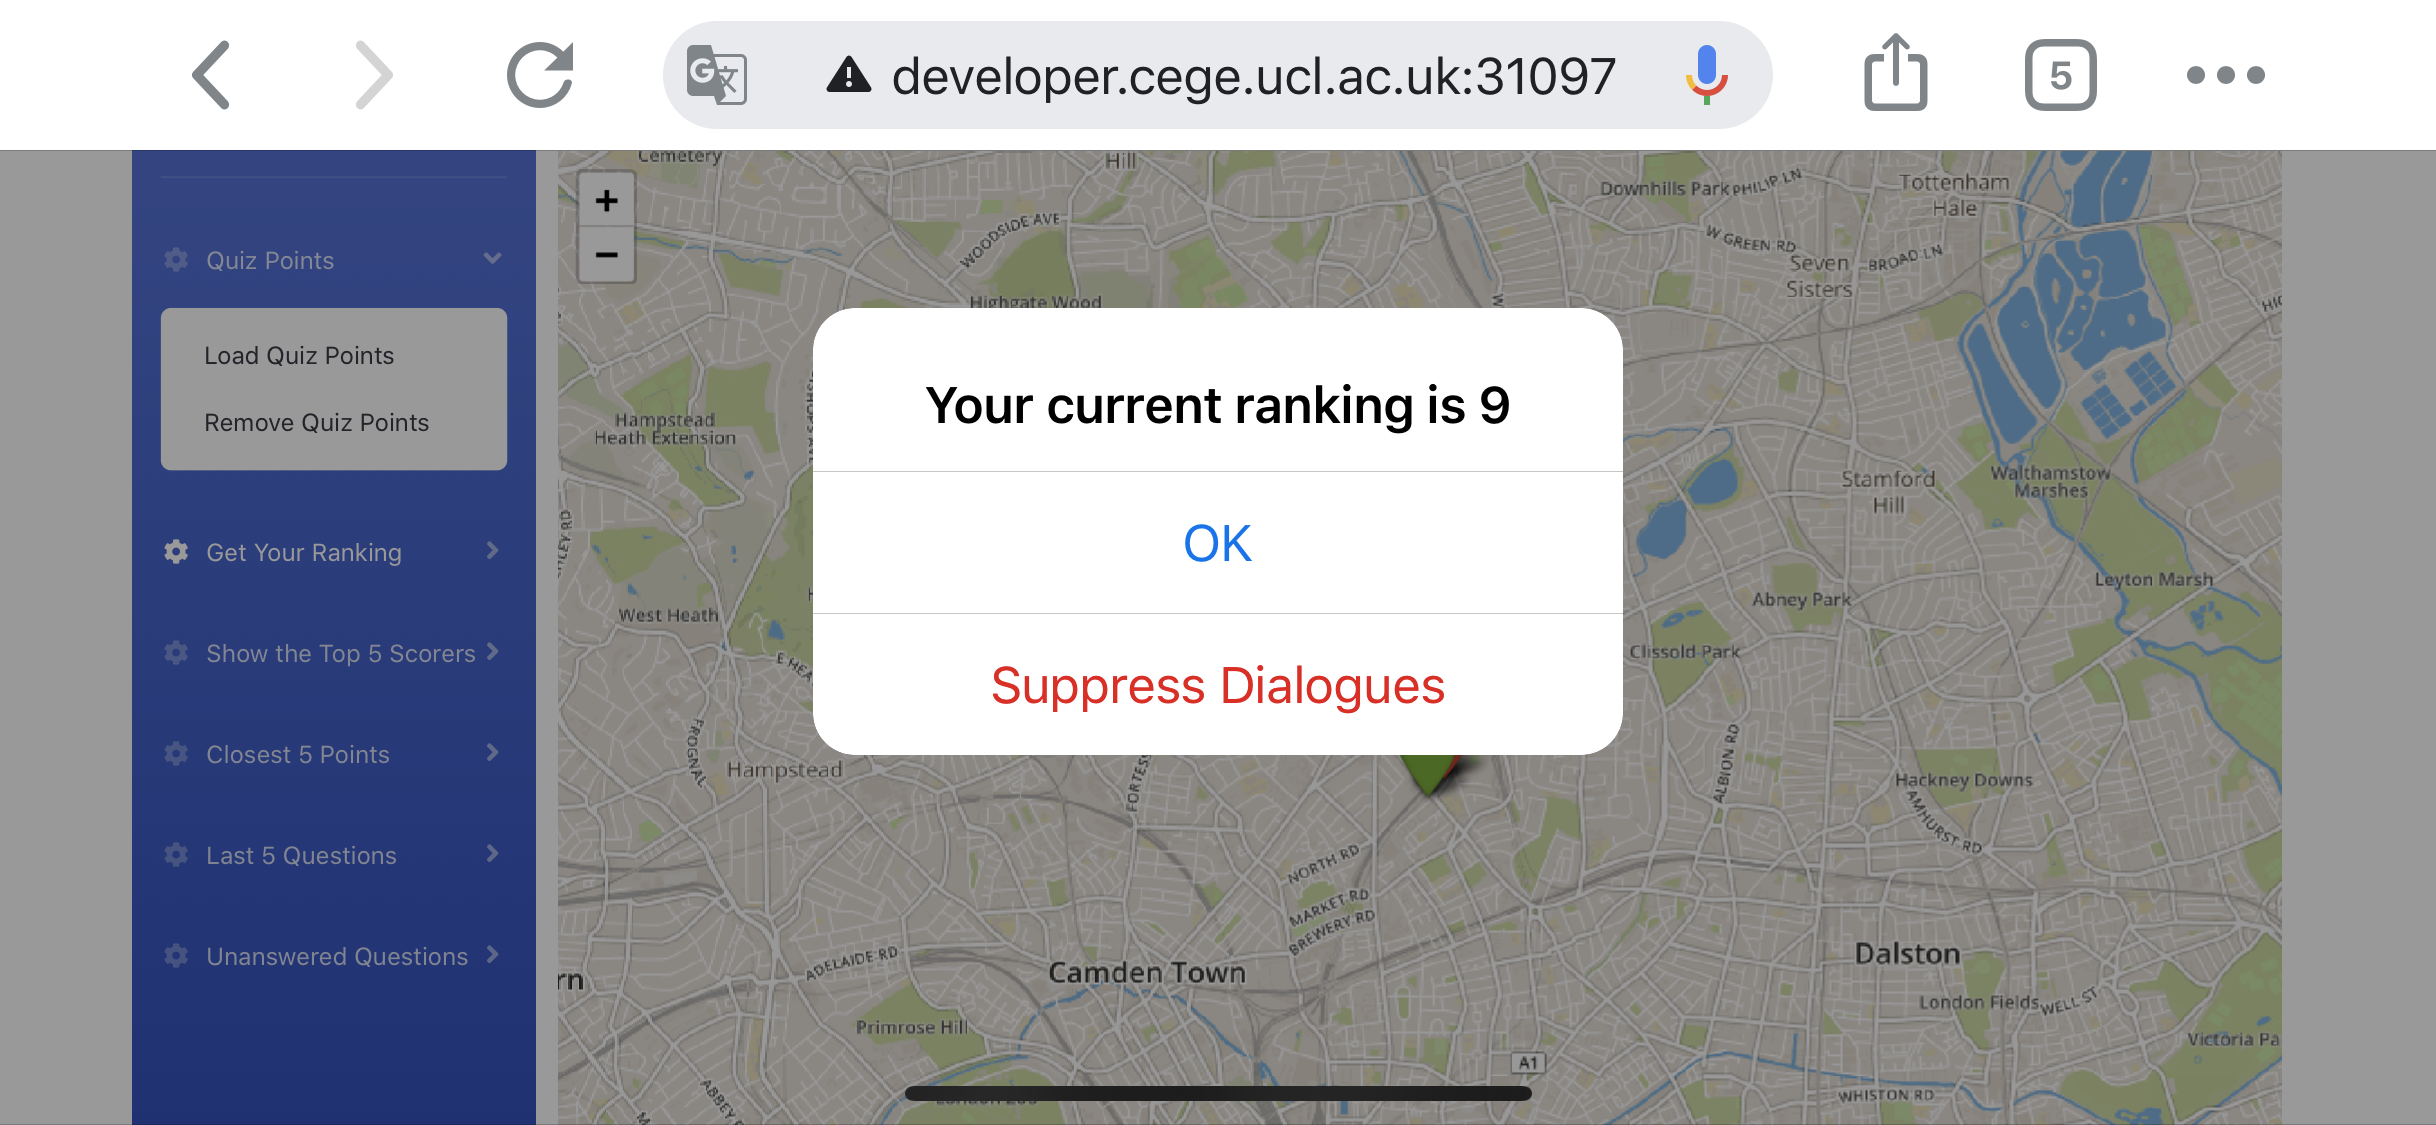
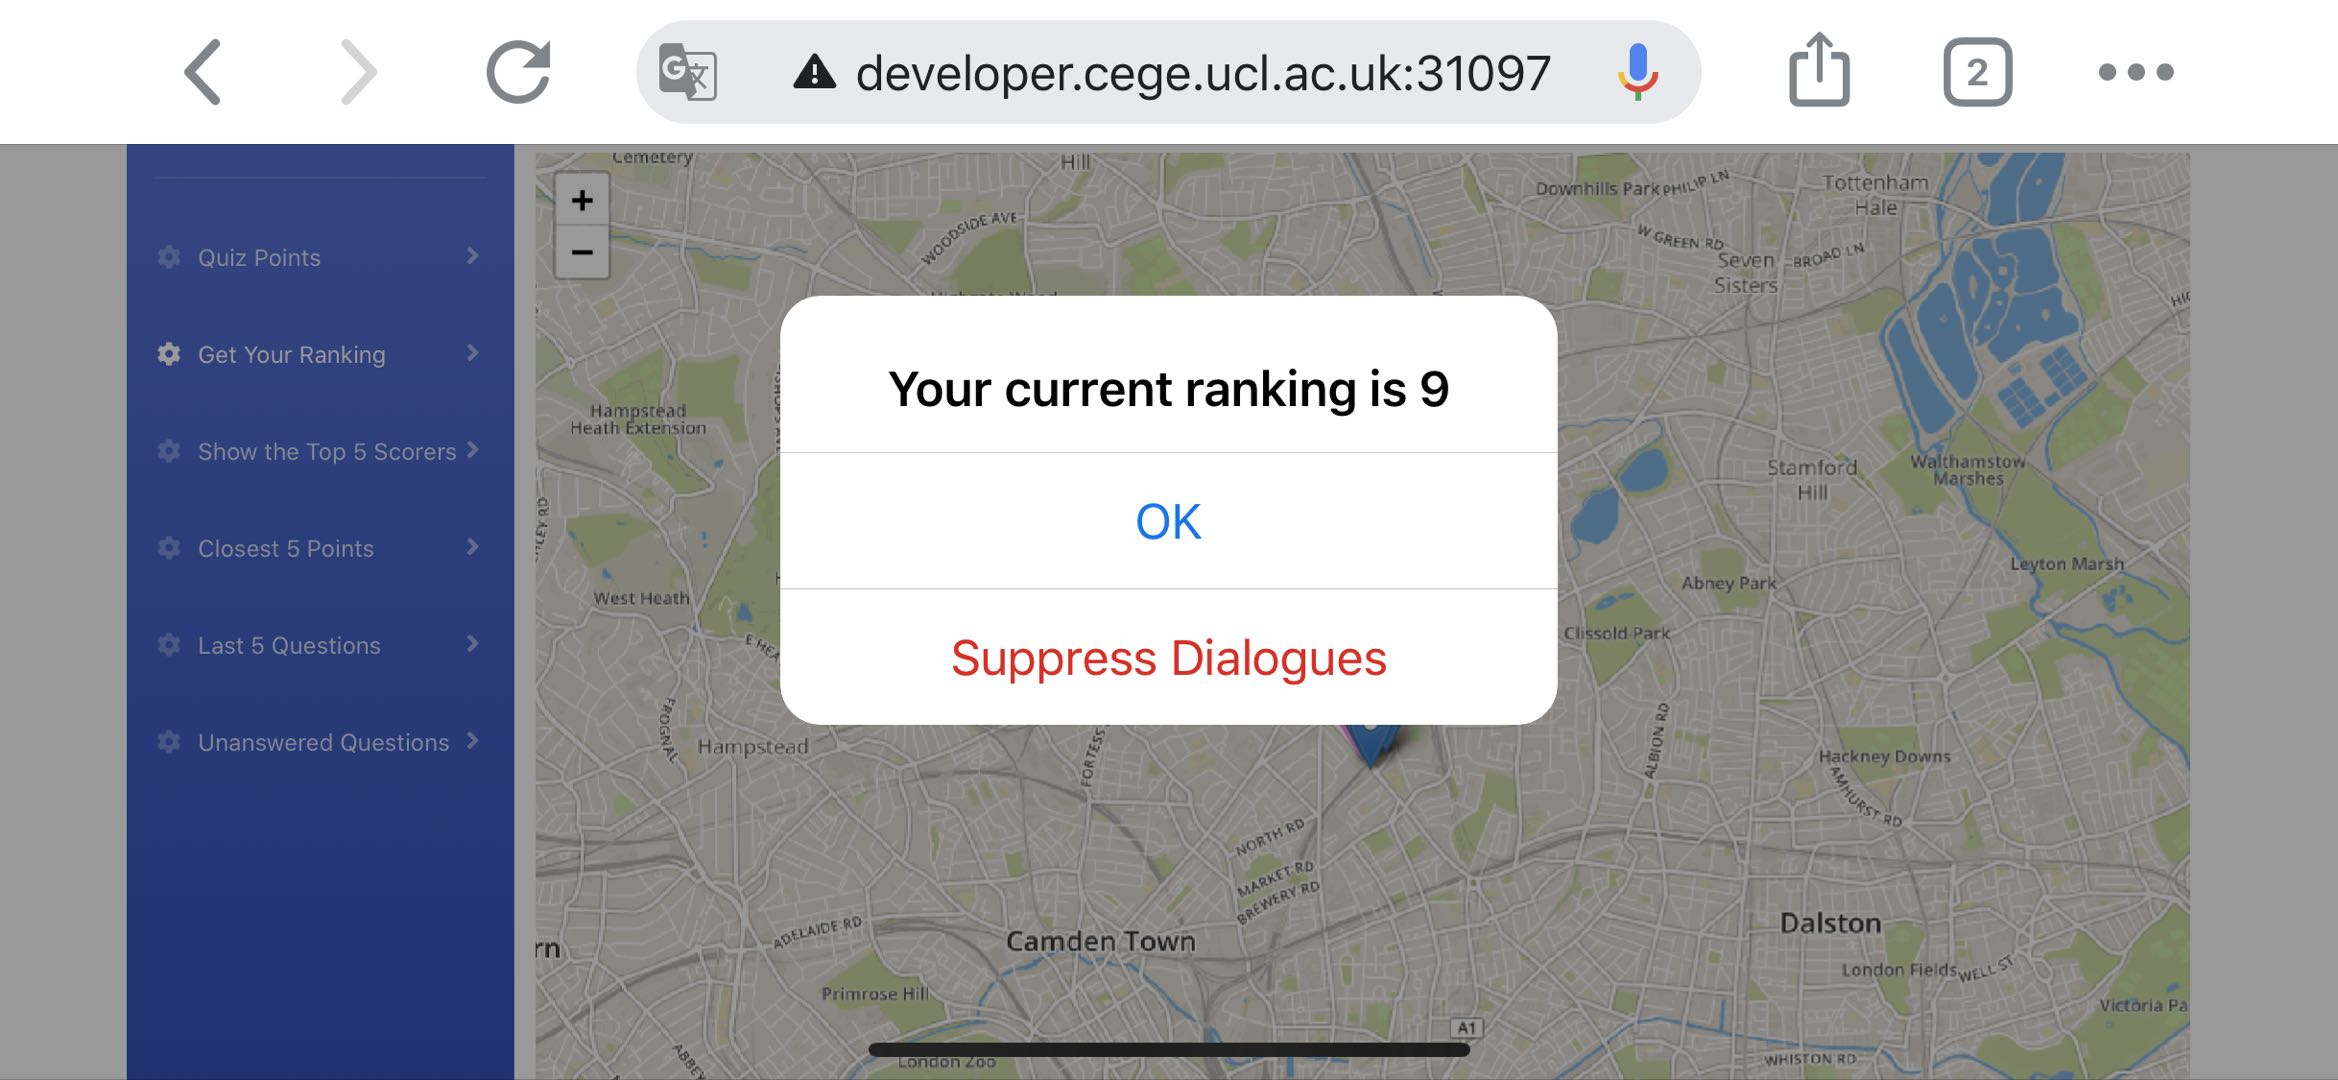
Add the code to tell the user how to get their ranking

diff --git a/help_quiz.html b/help_quiz.html
@@ -42,4 +42,13 @@
 
 	<P ALIGN=CENTER><B>Figure 5: </B>Answer correct (Green); Answer incorrect (Red); Unanswered questions (Blue)</P>
 
+	<br/>
+
+	<h3>Step 4: The user ranking</h3>
+	<P>Clicking the 'Get Your Ranking' in the left menu and the system will automatically pop up an alert window to tell you the current ranking (Figure 6)</P>
+
+	<P ALIGN=CENTER STYLE="margin-bottom: 0.14in; line-height: 100%"><IMG SRC="ScreenShoot/7.png" NAME="image18.png" ALIGN=BOTTOM HSPACE=12 VSPACE=12 WIDTH=730.8 HEIGHT=337.5 BORDER=0></P>
+
+	<P ALIGN=CENTER><B>Figure 6: </B>Alert window shows the user ranking</P>
+
 </body>
